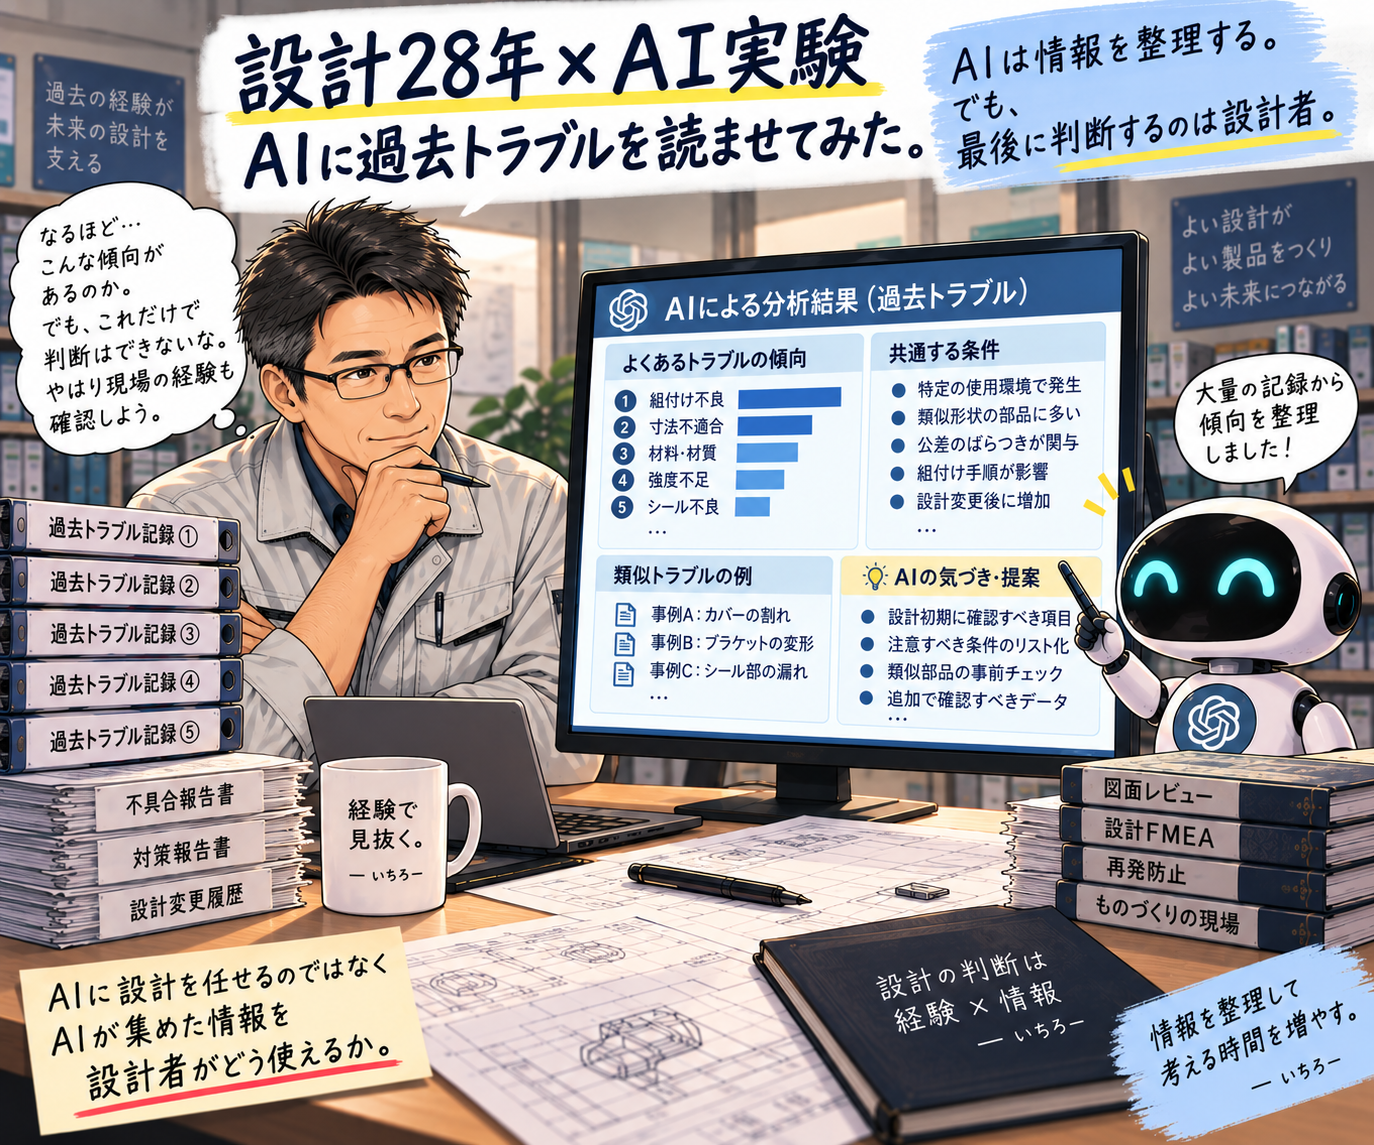
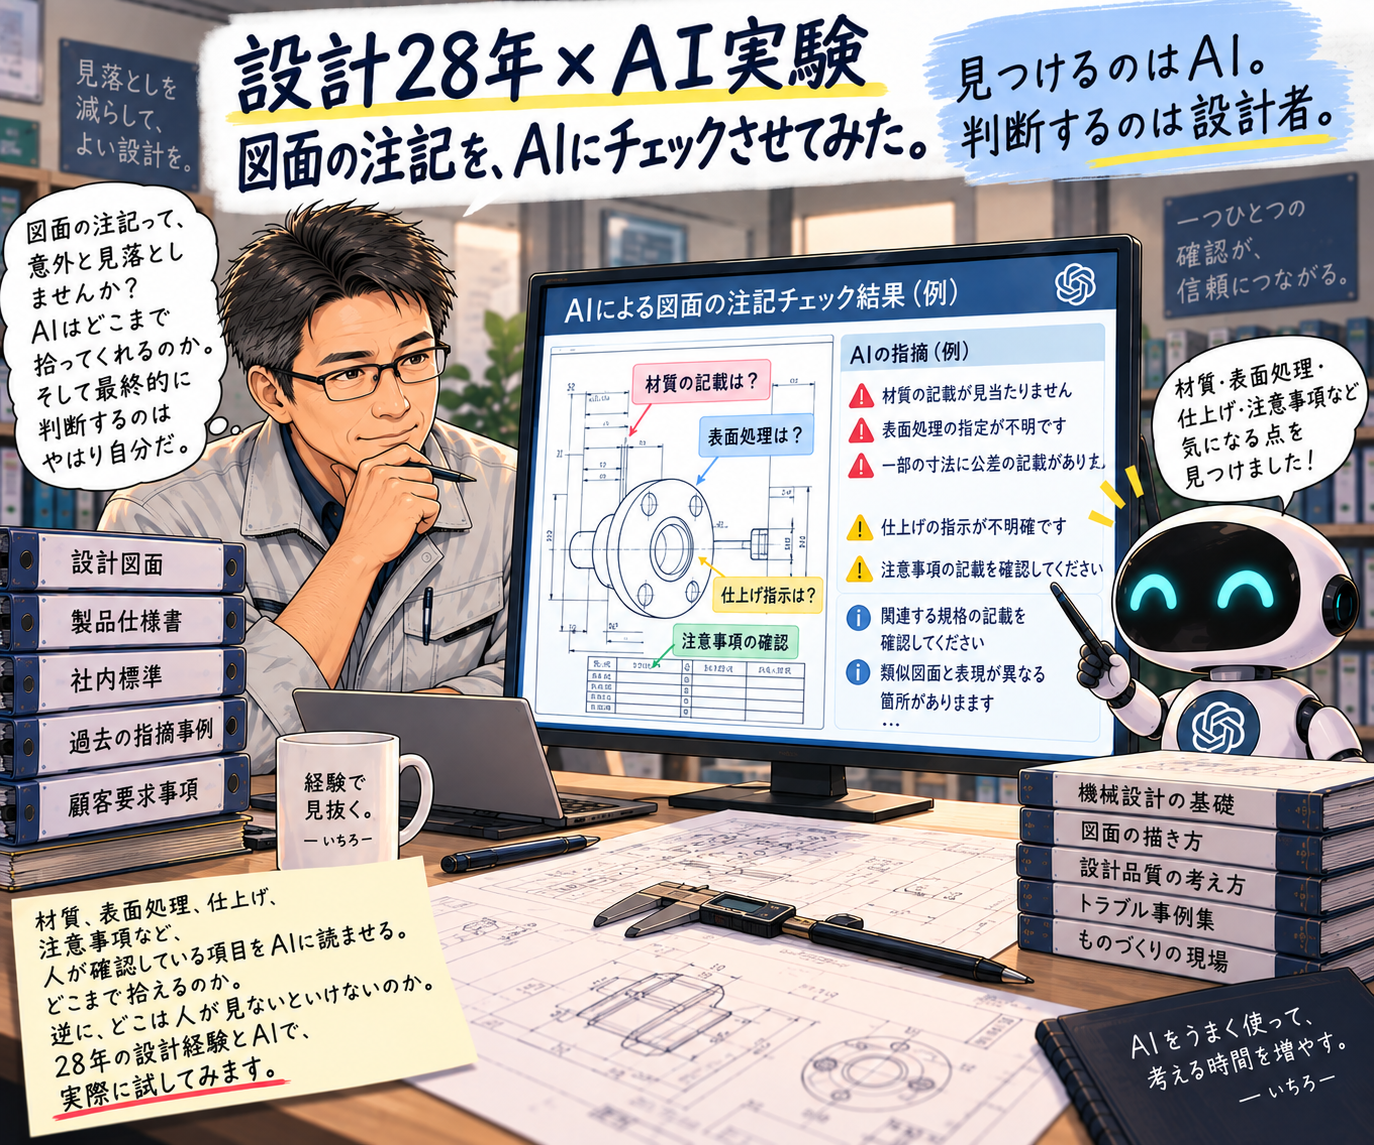
Add files via upload

diff --git a/index.html b/index.html
@@ -194,7 +194,7 @@
 
     /* Existing image assets */
     .hero-visual-wrap { margin-top: 28px; border-radius: 22px; overflow: hidden; background: #eef2f4; border: 1px solid #dfe5e8; }
-    .hero-visual { width: 100%; height: 250px; object-fit: cover; object-position: right center; }
+    .hero-visual { width: 100%; height: auto; max-height: 360px; object-fit: contain; object-position: center; }
     .profile-image { width: 100%; aspect-ratio: 1 / 1; object-fit: cover; border-radius: 20px; border: 1px solid var(--line); background: white; }
     .profile-visual { display: flex; flex-direction: column; gap: 18px; }
     .experience-image { width: 100%; aspect-ratio: 16 / 9; object-fit: cover; border-radius: 18px; border: 1px solid var(--line); margin-bottom: 24px; }
@@ -425,15 +425,15 @@
             <div class="experiment-body"><div class="placeholder">01</div><p>AIに過去トラブルを読ませてみた</p></div>
           </article>
           <article class="experiment-card">
-            <img class="experiment-image" src="assets/ai-trouble-read.png" alt="AIに過去トラブルを読ませてみた実験画像" />
+            <img class="experiment-image" src="assets/ai-trouble-read.png" alt="AIに図面の注記をチェックさせてみた実験画像" />
             <div class="experiment-body"><div class="placeholder">02</div><p>AIに図面の注記をチェックさせてみた</p></div>
           </article>
           <article class="experiment-card">
-            <div class="image-placeholder">3枚目の既存AI実験画像をここに配置できます</div>
+            <img class="experiment-image" src="assets/ai-meeting.png" alt="AIに打合せ議事録を整理させてみた実験画像" />
             <div class="experiment-body"><div class="placeholder">03</div><p>AIに打合せ議事録を整理させてみた</p></div>
           </article>
         </div>
-        <p class="muted" style="margin-top:18px;font-size:.82rem;">※ 既存のAI実験画像を配置する構造です。3枚目は画像追加後に差し替えできます。</p>
+        <p class="muted" style="margin-top:18px;font-size:.82rem;">※ 既存のAI実験画像を、そのまま掲載しています。</p>
       </div>
     </section>
 
